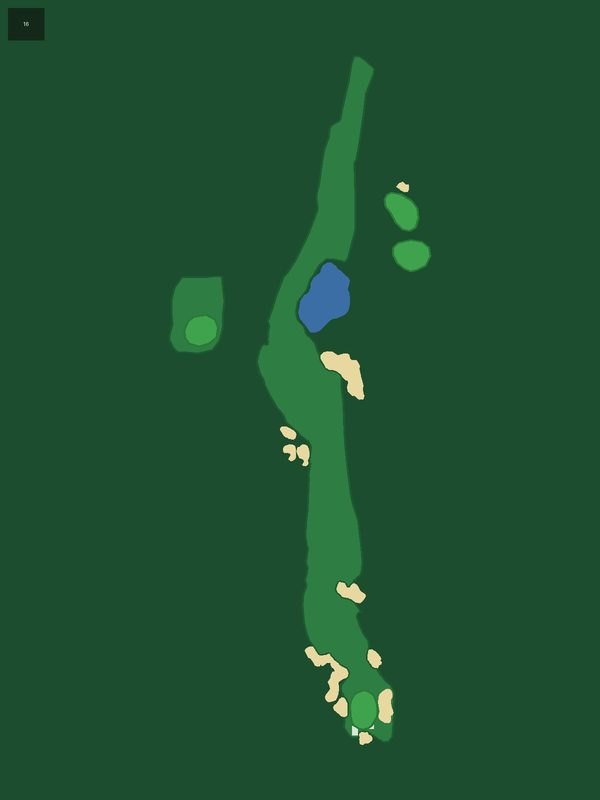
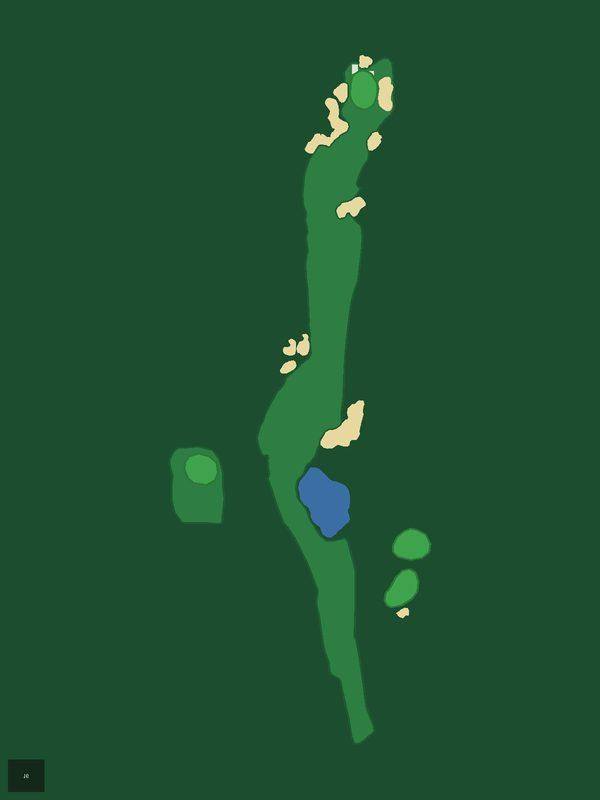
Pinehurst No. 2: fix map geometry (H16 flip, H1/H3/H5/H8 features, H10 pin) + 29 to-pin markers + distance scales

diff --git a/app/lib/widgets/hole_map_manifest.dart b/app/lib/widgets/hole_map_manifest.dart
@@ -212,23 +212,23 @@ const holeMapManifest = <String, Map<int, HoleMapAsset>>{
     18: HoleMapAsset(par: 5, map: 'assets/hole_maps/pebble-beach-golf-links/18.jpg', mask: 'assets/hole_maps/pebble-beach-golf-links/18_mask.png', tee: Offset(0.392, 0.917), pin: Offset(0.393, 0.107), source: 'osm', yardsPerPixel: 0.8349, yardages: const [YardageMarker(offset: Offset(0.392, 0.543), yards: 291), YardageMarker(offset: Offset(0.392, 0.586), yards: 320)]),
   },
   'Pinehurst No. 2': {
-    1: HoleMapAsset(par: 4, map: 'assets/hole_maps/pinehurst-no-2/1.jpg', mask: 'assets/hole_maps/pinehurst-no-2/1_mask.png', tee: Offset(0.561, 0.798), pin: Offset(0.472, 0.121), source: 'mixed'),
-    2: HoleMapAsset(par: 4, map: 'assets/hole_maps/pinehurst-no-2/2.jpg', mask: 'assets/hole_maps/pinehurst-no-2/2_mask.png', tee: Offset(0.540, 0.909), pin: Offset(0.540, 0.129), source: 'mixed'),
-    3: HoleMapAsset(par: 4, map: 'assets/hole_maps/pinehurst-no-2/3.jpg', mask: 'assets/hole_maps/pinehurst-no-2/3_mask.png', tee: Offset(0.494, 0.931), pin: Offset(0.492, 0.131), source: 'osm'),
+    1: HoleMapAsset(par: 4, map: 'assets/hole_maps/pinehurst-no-2/1.jpg', mask: 'assets/hole_maps/pinehurst-no-2/1_mask.png', tee: Offset(0.530, 0.914), pin: Offset(0.472, 0.121), source: 'mixed'),
+    2: HoleMapAsset(par: 4, map: 'assets/hole_maps/pinehurst-no-2/2.jpg', mask: 'assets/hole_maps/pinehurst-no-2/2_mask.png', tee: Offset(0.540, 0.909), pin: Offset(0.540, 0.129), source: 'mixed', yardsPerPixel: 0.8013, yardages: const [YardageMarker(offset: Offset(0.416, 0.464), yards: 205), YardageMarker(offset: Offset(0.405, 0.510), yards: 233), YardageMarker(offset: Offset(0.405, 0.548), yards: 254)]),
+    3: HoleMapAsset(par: 4, map: 'assets/hole_maps/pinehurst-no-2/3.jpg', mask: 'assets/hole_maps/pinehurst-no-2/3_mask.png', tee: Offset(0.494, 0.931), pin: Offset(0.492, 0.131), source: 'osm', yardsPerPixel: 0.6047, yardages: const [YardageMarker(offset: Offset(0.357, 0.389), yards: 136), YardageMarker(offset: Offset(0.357, 0.431), yards: 154)]),
     4: HoleMapAsset(par: 4, map: 'assets/hole_maps/pinehurst-no-2/4.jpg', mask: 'assets/hole_maps/pinehurst-no-2/4_mask.png', tee: Offset(0.449, 0.803), pin: Offset(0.450, 0.090), source: 'mixed'),
     5: HoleMapAsset(par: 5, map: 'assets/hole_maps/pinehurst-no-2/5.jpg', mask: 'assets/hole_maps/pinehurst-no-2/5_mask.png', tee: Offset(0.525, 0.905), pin: Offset(0.524, 0.123), source: 'mixed'),
-    6: HoleMapAsset(par: 3, map: 'assets/hole_maps/pinehurst-no-2/6.jpg', mask: 'assets/hole_maps/pinehurst-no-2/6_mask.png', tee: Offset(0.513, 0.863), pin: Offset(0.508, 0.209), source: 'osm'),
+    6: HoleMapAsset(par: 3, map: 'assets/hole_maps/pinehurst-no-2/6.jpg', mask: 'assets/hole_maps/pinehurst-no-2/6_mask.png', tee: Offset(0.513, 0.863), pin: Offset(0.508, 0.209), source: 'osm', yardsPerPixel: 0.4224, yardages: const [YardageMarker(offset: Offset(0.572, 0.232), yards: 21), YardageMarker(offset: Offset(0.448, 0.281), yards: 30)]),
     7: HoleMapAsset(par: 4, map: 'assets/hole_maps/pinehurst-no-2/7.jpg', mask: 'assets/hole_maps/pinehurst-no-2/7_mask.png', tee: Offset(0.618, 0.900), pin: Offset(0.618, 0.106), source: 'mixed'),
-    8: HoleMapAsset(par: 5, map: 'assets/hole_maps/pinehurst-no-2/8.jpg', mask: 'assets/hole_maps/pinehurst-no-2/8_mask.png', tee: Offset(0.801, 0.901), pin: Offset(0.803, 0.152), source: 'mixed'),
-    9: HoleMapAsset(par: 3, map: 'assets/hole_maps/pinehurst-no-2/9.jpg', mask: 'assets/hole_maps/pinehurst-no-2/9_mask.png', tee: Offset(0.422, 0.897), pin: Offset(0.433, 0.238), source: 'mixed'),
-    10: HoleMapAsset(par: 5, map: 'assets/hole_maps/pinehurst-no-2/10.jpg', mask: 'assets/hole_maps/pinehurst-no-2/10_mask.png', tee: Offset(0.427, 0.908), pin: Offset(0.426, 0.178), source: 'mixed'),
+    8: HoleMapAsset(par: 5, map: 'assets/hole_maps/pinehurst-no-2/8.jpg', mask: 'assets/hole_maps/pinehurst-no-2/8_mask.png', tee: Offset(0.528, 0.901), pin: Offset(0.530, 0.152), source: 'mixed', yardsPerPixel: 0.8244, yardages: const [YardageMarker(offset: Offset(0.505, 0.514), yards: 238), YardageMarker(offset: Offset(0.503, 0.549), yards: 263)]),
+    9: HoleMapAsset(par: 3, map: 'assets/hole_maps/pinehurst-no-2/9.jpg', mask: 'assets/hole_maps/pinehurst-no-2/9_mask.png', tee: Offset(0.422, 0.897), pin: Offset(0.433, 0.238), source: 'mixed', yardsPerPixel: 0.3585, yardages: const [YardageMarker(offset: Offset(0.330, 0.244), yards: -22), YardageMarker(offset: Offset(0.421, 0.230), yards: -3), YardageMarker(offset: Offset(0.466, 0.304), yards: 20)]),
+    10: HoleMapAsset(par: 5, map: 'assets/hole_maps/pinehurst-no-2/10.jpg', mask: 'assets/hole_maps/pinehurst-no-2/10_mask.png', tee: Offset(0.427, 0.908), pin: Offset(0.436, 0.150), source: 'mixed'),
     11: HoleMapAsset(par: 4, map: 'assets/hole_maps/pinehurst-no-2/11.jpg', mask: 'assets/hole_maps/pinehurst-no-2/11_mask.png', tee: Offset(0.516, 0.908), pin: Offset(0.519, 0.259), source: 'mixed'),
     12: HoleMapAsset(par: 4, map: 'assets/hole_maps/pinehurst-no-2/12.jpg', mask: 'assets/hole_maps/pinehurst-no-2/12_mask.png', tee: Offset(0.554, 0.907), pin: Offset(0.551, 0.119), source: 'mixed'),
-    13: HoleMapAsset(par: 4, map: 'assets/hole_maps/pinehurst-no-2/13.jpg', mask: 'assets/hole_maps/pinehurst-no-2/13_mask.png', tee: Offset(0.529, 0.903), pin: Offset(0.526, 0.141), source: 'mixed'),
-    14: HoleMapAsset(par: 4, map: 'assets/hole_maps/pinehurst-no-2/14.jpg', mask: 'assets/hole_maps/pinehurst-no-2/14_mask.png', tee: Offset(0.557, 0.849), pin: Offset(0.555, 0.130), source: 'mixed'),
-    15: HoleMapAsset(par: 3, map: 'assets/hole_maps/pinehurst-no-2/15.jpg', mask: 'assets/hole_maps/pinehurst-no-2/15_mask.png', tee: Offset(0.508, 0.896), pin: Offset(0.505, 0.167), source: 'mixed'),
-    16: HoleMapAsset(par: 5, map: 'assets/hole_maps/pinehurst-no-2/16.jpg', mask: 'assets/hole_maps/pinehurst-no-2/16_mask.png', tee: Offset(0.605, 0.890), pin: Offset(0.686, 0.319), source: 'mixed'),
-    17: HoleMapAsset(par: 3, map: 'assets/hole_maps/pinehurst-no-2/17.jpg', mask: 'assets/hole_maps/pinehurst-no-2/17_mask.png', tee: Offset(0.443, 0.894), pin: Offset(0.425, 0.215), source: 'mixed'),
+    13: HoleMapAsset(par: 4, map: 'assets/hole_maps/pinehurst-no-2/13.jpg', mask: 'assets/hole_maps/pinehurst-no-2/13_mask.png', tee: Offset(0.529, 0.903), pin: Offset(0.526, 0.141), source: 'mixed', yardsPerPixel: 0.6250, yardages: const [YardageMarker(offset: Offset(0.522, 0.360), yards: 119), YardageMarker(offset: Offset(0.501, 0.436), yards: 150)]),
+    14: HoleMapAsset(par: 4, map: 'assets/hole_maps/pinehurst-no-2/14.jpg', mask: 'assets/hole_maps/pinehurst-no-2/14_mask.png', tee: Offset(0.557, 0.849), pin: Offset(0.555, 0.130), source: 'mixed', yardsPerPixel: 0.8258, yardages: const [YardageMarker(offset: Offset(0.516, 0.414), yards: 186), YardageMarker(offset: Offset(0.608, 0.415), yards: 184), YardageMarker(offset: Offset(0.601, 0.450), yards: 215), YardageMarker(offset: Offset(0.602, 0.481), yards: 235)]),
+    15: HoleMapAsset(par: 3, map: 'assets/hole_maps/pinehurst-no-2/15.jpg', mask: 'assets/hole_maps/pinehurst-no-2/15_mask.png', tee: Offset(0.508, 0.896), pin: Offset(0.505, 0.167), source: 'mixed', yardsPerPixel: 0.3464, yardages: const [YardageMarker(offset: Offset(0.372, 0.233), yards: 27), YardageMarker(offset: Offset(0.585, 0.366), yards: 48)]),
+    16: HoleMapAsset(par: 5, map: 'assets/hole_maps/pinehurst-no-2/16.jpg', mask: 'assets/hole_maps/pinehurst-no-2/16_mask.png', tee: Offset(0.605, 0.910), pin: Offset(0.606, 0.112), source: 'mixed', yardsPerPixel: 0.8459, yardages: const [YardageMarker(offset: Offset(0.612, 0.483), yards: 251), YardageMarker(offset: Offset(0.724, 0.460), yards: 244)]),
+    17: HoleMapAsset(par: 3, map: 'assets/hole_maps/pinehurst-no-2/17.jpg', mask: 'assets/hole_maps/pinehurst-no-2/17_mask.png', tee: Offset(0.443, 0.894), pin: Offset(0.425, 0.215), source: 'mixed', yardsPerPixel: 0.3810, yardages: const [YardageMarker(offset: Offset(0.309, 0.297), yards: 33), YardageMarker(offset: Offset(0.473, 0.245), yards: 12), YardageMarker(offset: Offset(0.435, 0.257), yards: 16)]),
     18: HoleMapAsset(par: 4, map: 'assets/hole_maps/pinehurst-no-2/18.jpg', mask: 'assets/hole_maps/pinehurst-no-2/18_mask.png', tee: Offset(0.493, 0.907), pin: Offset(0.492, 0.126), source: 'mixed'),
   },
   'TPC Sawgrass': {
